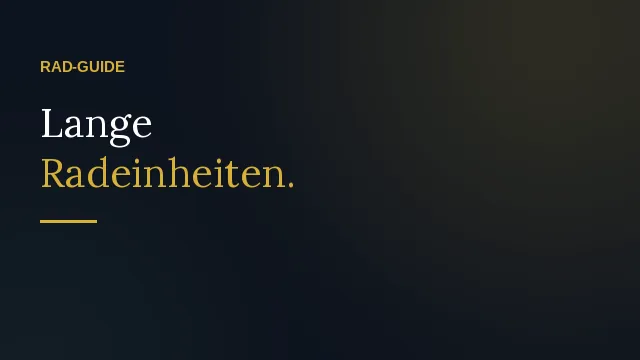
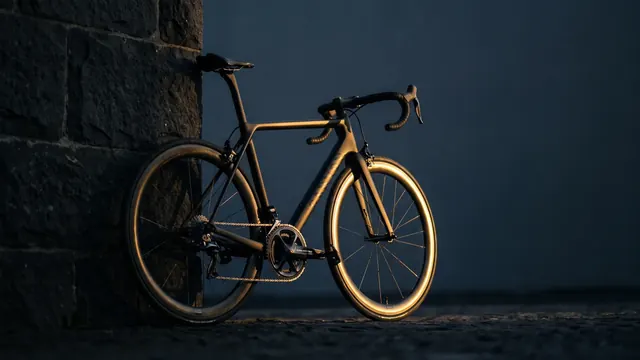
Mitochondrien ergaenzt, Rad-Bilder

diff --git a/index.html b/index.html
@@ -4,7 +4,7 @@
 <meta charset="UTF-8">
 <meta name="viewport" content="width=device-width, initial-scale=1">
 <title>Longevity-Wissen: alle Guides | Dr. Lara Vadlau</title>
-<meta name="description" content="Alle Guides von Dr. Lara Vadlau an einem Ort: Blutwerte, Supplements, Muskelaufbau, Rad, Fasten, NMN, Inhaltsstoffe, Mikroplastik, Bio-Einkauf und Nierenwerte. Evidenzbasiert, ohne Hype.">
+<meta name="description" content="Alle Guides von Dr. Lara Vadlau an einem Ort: Blutwerte, Supplements, Muskelaufbau, Rad, Fasten, NMN, Mitochondrien, Inhaltsstoffe, Mikroplastik, Bio-Einkauf und Nierenwerte. Evidenzbasiert, ohne Hype.">
 <meta property="og:type" content="website">
 <meta property="og:site_name" content="Dr. Lara Vadlau · Longevity Medicine">
 <meta property="og:locale" content="de_DE">
@@ -156,6 +156,10 @@ footer .container{display:flex;flex-wrap:wrap;justify-content:space-between;gap:
       <a class="card reveal" href="https://lara-fasten.vercel.app">
         <div class="thumb"><img src="thumb-fasten.webp" alt="Fasten" loading="lazy"></div>
         <div class="body"><span class="kw">Fasten</span><h2>Fasten, Stunde für Stunde</h2><p>Was im Körper passiert, das passende Protokoll und Scheinfasten.</p><span class="go">Guide öffnen &rarr;</span></div>
+      </a>
+      <a class="card reveal" href="https://lara-mitochondrien.vercel.app">
+        <div class="thumb"><img src="thumb-mitochondrien.webp" alt="Mitochondrien" loading="lazy"></div>
+        <div class="body"><span class="kw">Mitochondrien</span><h2>Deine Zellkraftwerke unter Strom</h2><p>Wie Kreatin, Glycin und Taurin deine Zellen unterstützen.</p><span class="go">Guide öffnen &rarr;</span></div>
       </a>
       <a class="card reveal" href="https://lara-nmn.vercel.app">
         <div class="thumb"><img src="thumb-nmn.webp" alt="NMN" loading="lazy"></div>
